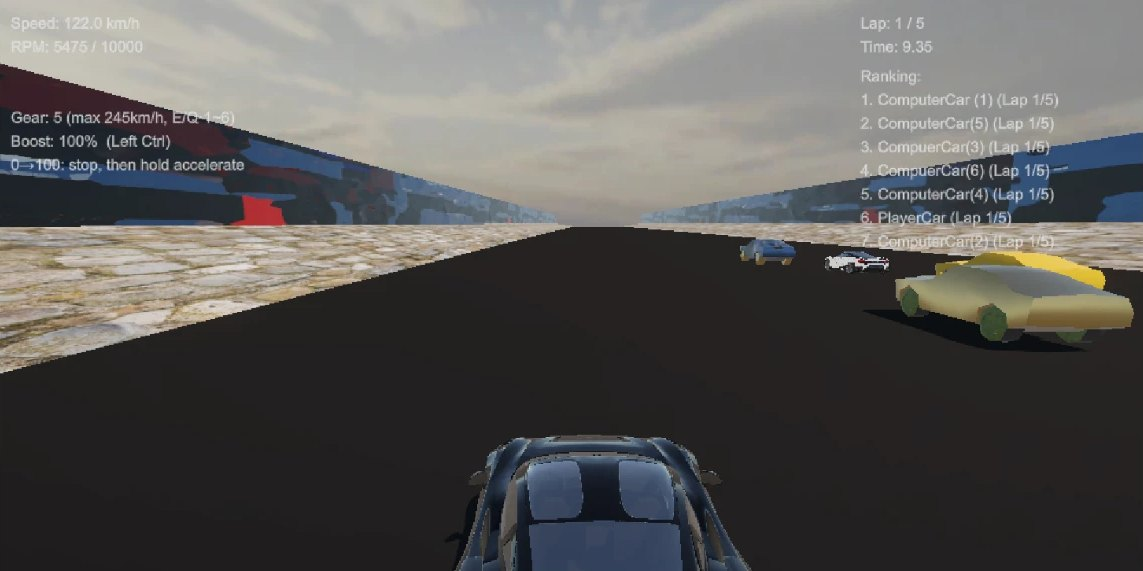
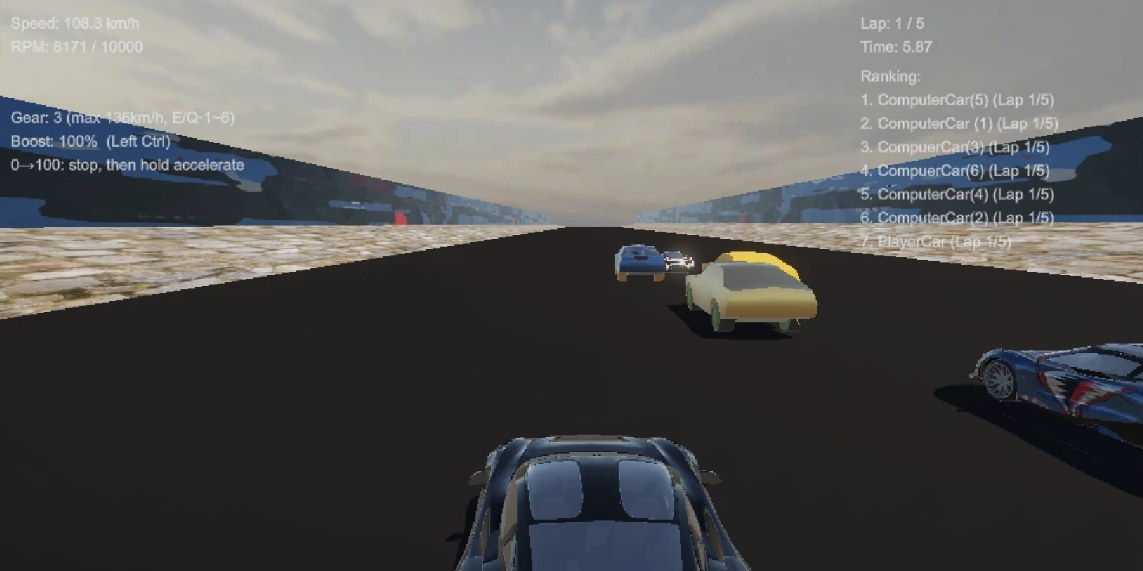
feat: Formula One 주행·경로 화면과 2DCombat 화면 교체

Changed region(s): [[0.5206, 0.1489, 1.0, 0.8634], [0.0, 0.1191, 0.4899, 0.655]]

diff --git a/index.html b/index.html
@@ -552,6 +552,10 @@ footer small{display:block;margin-top:22px;color:#93A0B3;font-size:13.5px}
           <div><b>AI가 8km 앞으로 순간이동</b><span>원인: 체크포인트를 잇는 직선이 도로가 아닌 허공을 지남. 도로를 따르는 경로(웨이포인트 679개)로 교체.</span></div>
           <div><b>한쪽 차 모델만 자주 넘어짐</b><span>원인: 모델 두 종류에 같은 무게중심 값. 바퀴 높이 기준 계산으로 수정.</span></div>
           <div><b>AI 평균 속도 약 130km/h</b><span>원인: 직선에서도 브레이크, 앞차 뒤에서 줄지어 감속. 고친 뒤 평균 약 240km/h.</span></div>
+          <figure style="margin-top:4px">
+            <a href="assets/f1-path.jpg"><img src="assets/f1-path.jpg" alt="Unity 편집 화면. 도로 가운데를 따라 경로 점이 줄지어 있고 차량들이 그 위에 서 있다" loading="lazy" style="border-color:rgba(255,255,255,.2)"></a>
+            <figcaption style="color:#C8D0DC">Unity 편집 화면. 도로 가운데를 따라 놓인 점들이 AI 차량이 따라가는 경로입니다.</figcaption>
+          </figure>
         </div>
       </div>
       <div class="txt">
@@ -565,7 +569,7 @@ footer small{display:block;margin-top:22px;color:#93A0B3;font-size:13.5px}
         </ul>
         <p class="proof"><b>확인</b> Unity에서 실제로 씬을 실행하는 자동 플레이 테스트 53개. 고칠 때마다 같은 테스트로 다시 확인했습니다.</p>
         <div class="two" style="margin-top:14px">
-          <figure><a href="assets/f1-play1.jpg"><img src="assets/f1-play1.jpg" alt="Formula One 주행 화면. 앞에 AI 차량 3대가 보이고 오른쪽에 실시간 순위가 표시된다" loading="lazy"></a></figure>
+          <figure><a href="assets/f1-play1.jpg"><img src="assets/f1-play1.jpg" alt="Formula One 주행 화면. 바로 앞과 옆에 AI 차량 네 대가 보이고 오른쪽에 실시간 순위가 표시된다" loading="lazy"></a></figure>
           <figure><a href="assets/f1-play2.jpg"><img src="assets/f1-play2.jpg" alt="Formula One 주행 화면. 6단 기어, 시속 195km, 순위 1위" loading="lazy"></a></figure>
         </div>
         <p style="font-size:13.5px;color:var(--sub);margin-top:8px">Unity에서 실행한 주행 화면. 왼쪽에 속도, RPM, 기어, 부스트가 있고 오른쪽에 랩, 시간, 실시간 순위가 있습니다.</p>
